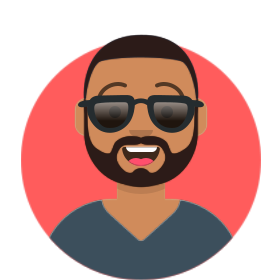
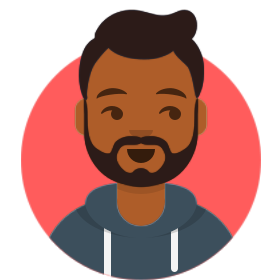
clothing change

diff --git a/avatar.py b/avatar.py
@@ -16,7 +16,7 @@ from scipy.spatial import distance
 from rembg import remove
 from PIL import Image
 
-input_path = "image_male.png"
+input_path = "person.png"
 output_path = "refined_image.png"
 
 with open(input_path, "rb") as input_file:
@@ -558,6 +558,26 @@ accesories_type_map={
 
 chosen_accesories_type=accesories_type_map.get(accesories_type,pa.AccessoriesType.DEFAULT)
 
+# cloth type
+cloth_types=["HOODIE,"
+"BLAZER_SHIRT",
+"BLAZER_SWEATER",
+"COLLAR_SWEATER",
+"GRAPHIC_SHIRT",
+"OVERALL",
+"SHIRT_V_NECK"]
+cloth_type=random.choice(cloth_types)
+cloth_mapping={
+    "HOODIE":pa.ClotheType.HOODIE,
+    "BLAZER_SHIRT":pa.ClotheType.BLAZER_SHIRT,
+    "BLAZER_SWEATER":pa.ClotheType.BLAZER_SWEATER,
+    "COLLAR_SWEATER":pa.ClotheType.COLLAR_SWEATER,
+    "GRAPHIC_SHIRT":pa.ClotheType.GRAPHIC_SHIRT,
+    "OVERALL":pa.ClotheType.OVERALL,
+    "SHIRT_V_NECK":pa.ClotheType.SHIRT_V_NECK
+}
+chosen_cloth_type=cloth_mapping.get(cloth_type,pa.ClotheType.HOODIE)
+
 # print(chosen_skin_color)
 # print(chosen_beard_level)
 # print(chosen_hair_color)
@@ -566,7 +586,7 @@ chosen_accesories_type=accesories_type_map.get(accesories_type,pa.AccessoriesTyp
 # print(chosen_eye_type)
 # print(chosen_eyebrow_type)
 # print(chosen_accesories_type)
-
+print(chosen_cloth_type)
 
 
 # Create an avatar instance
@@ -580,11 +600,8 @@ avatar = pa.PyAvataaar(
     eyebrow_type=chosen_eyebrow_type,
     nose_type=pa.NoseType.DEFAULT,
     accessories_type=chosen_accesories_type,
-    # clothe_shirt_type=pa.ClotheShirtType.DEFAULT,
-    # clothe_type=pa.clothe_type.GRAPHIC_SHIRT,
-    # clothe_color=pa.clothe_color.PINK,
-    # clothe_graphic_type=pa.clothe_graphic_type.BIRD,
-    # clothe_graphic_color=pa.clothe_graphic_color.WHITE
+    clothe_type=chosen_cloth_type,
+    clothe_graphic_type=pa.ClotheGraphicType.PIZZA,
 )
 
 # Render and save the avatar as a PNG file
